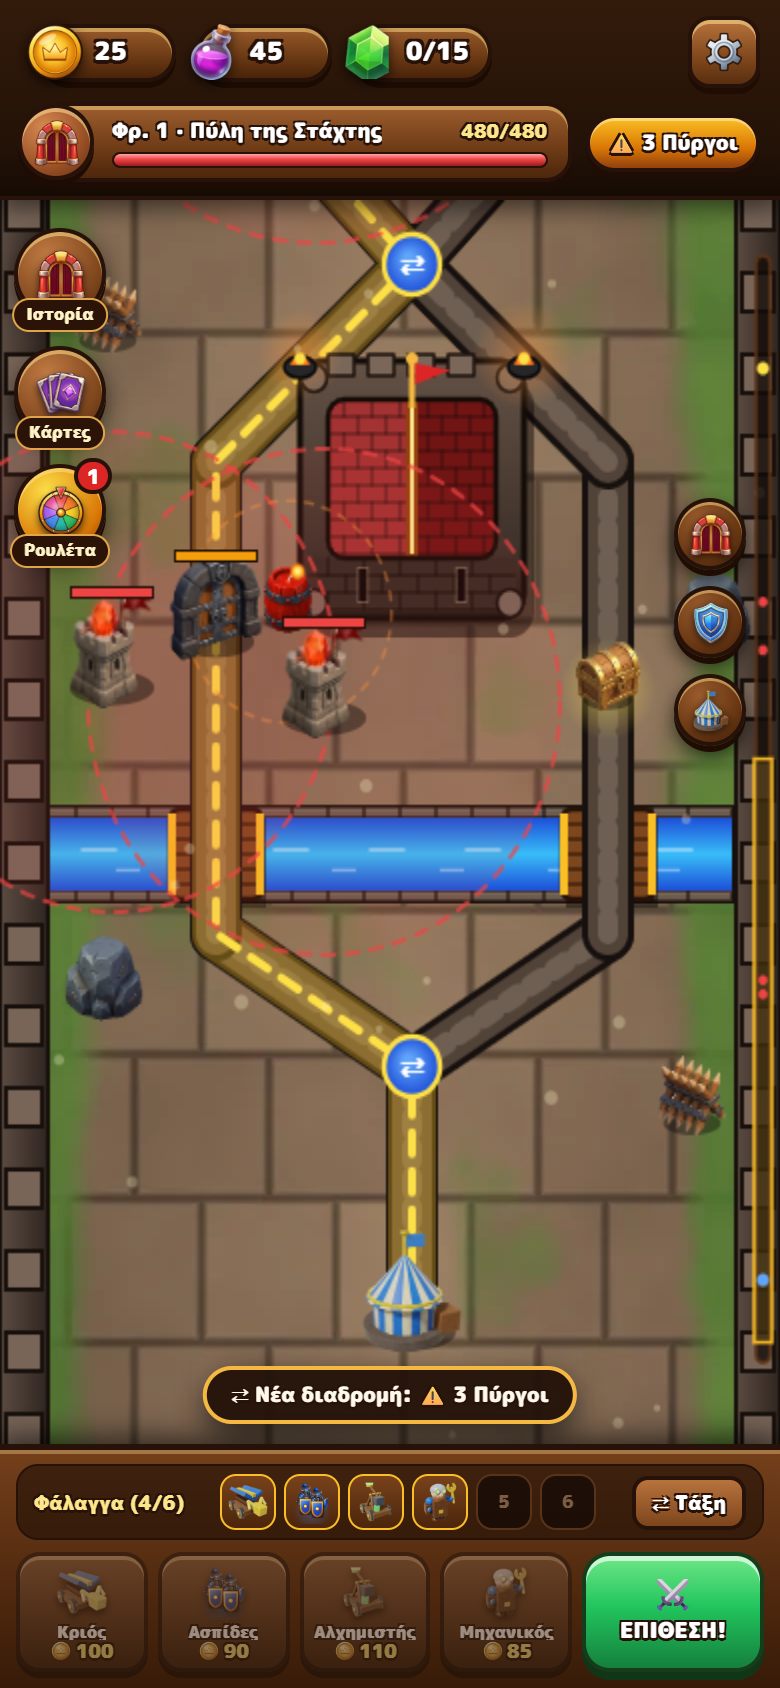
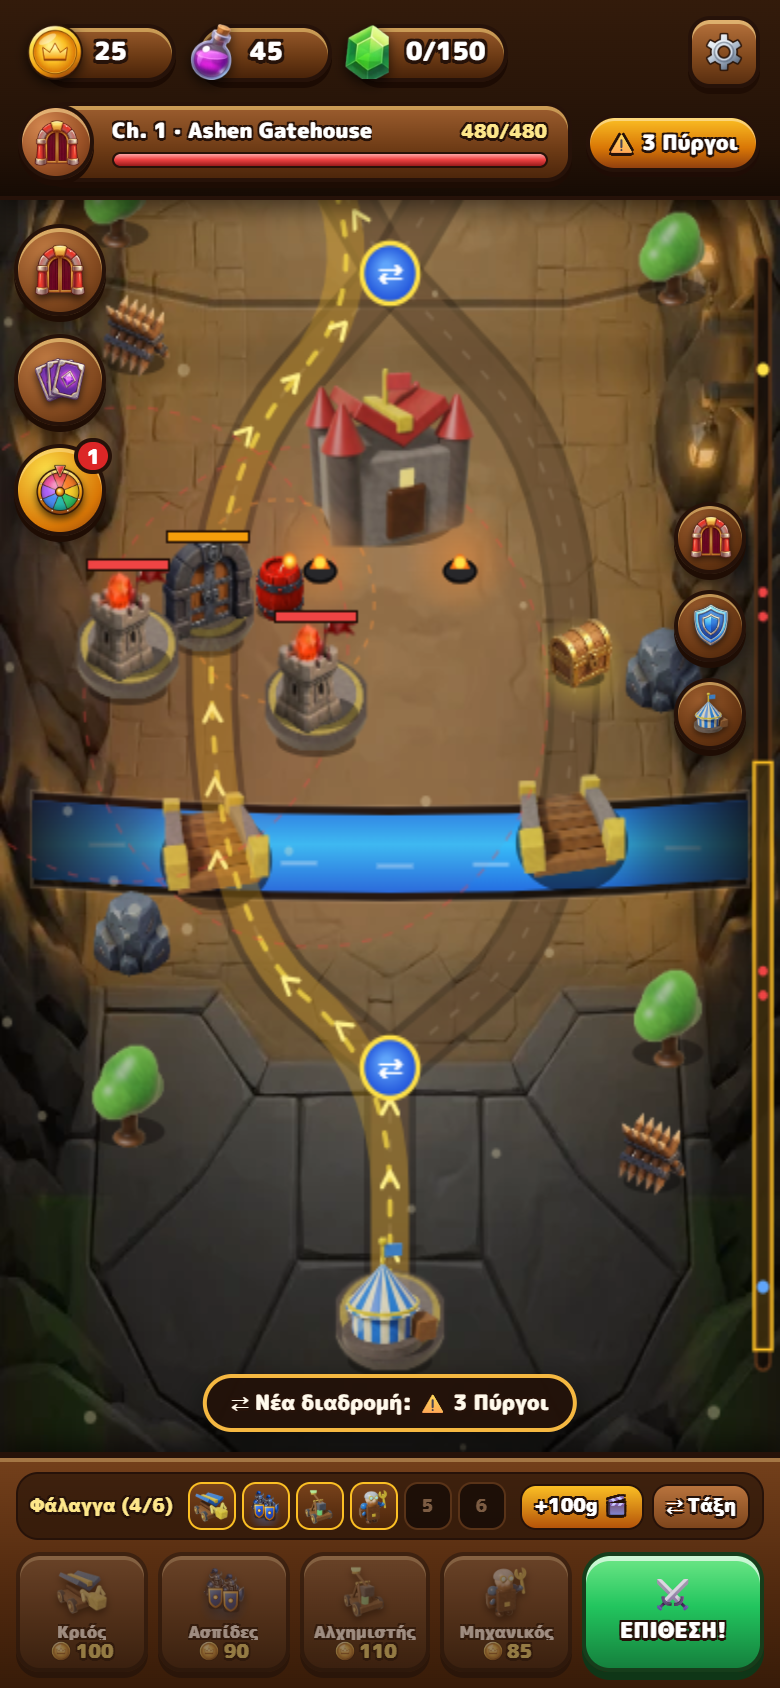
Release v1.2.0: Sculpted Realms, 50 Chapters & refreshed showcase screenshots

diff --git a/README.md b/README.md
@@ -22,12 +22,12 @@
     <img src="https://img.shields.io/badge/More_Apps-jemangr.app-f59e0b?style=for-the-badge" alt="jemangr.app" />
   </a>
   <a href="https://github.com/jemangr/reverse-siege-releases/releases">
-    <img src="https://img.shields.io/badge/Releases-v1.1.0-22c55e?style=for-the-badge" alt="GitHub Releases" />
+    <img src="https://img.shields.io/badge/Releases-v1.2.0-22c55e?style=for-the-badge" alt="GitHub Releases" />
   </a>
 </p>
 
 <p align="center">
-  <img src="https://img.shields.io/badge/Version-v1.1.0-brightgreen" alt="Version v1.1.0" />
+  <img src="https://img.shields.io/badge/Version-v1.2.0-brightgreen" alt="Version v1.2.0" />
   <img src="https://img.shields.io/badge/Package-app.jemangr.reversesiege-blue" alt="Package app.jemangr.reversesiege" />
   <img src="https://img.shields.io/badge/Platform-Android%208.0%2B-purple" alt="Android 8.0+" />
   <img src="https://img.shields.io/badge/Languages-EL%20%7C%20EN-gold" alt="Languages EL | EN" />
@@ -46,26 +46,26 @@ Always get the latest official Android APK build from this permanent link:
 
 ---
 
-## ✨ Key Highlights (`v1.1.0 — Living Castles & 5 Biomes`)
+## ✨ Key Highlights (`v1.2.0 — Sculpted Realms & 50 Chapters`)
 
-- 🏰 **3-Zone Living Castles & Scroll Camera (`390×1100`):** Scroll vertically across **Outer Moat & Drawbridges**, **Inner Guardhouse Walls**, and the **Citadel Keep Sanctum** via touch drag, wheel, right-side quick-camera medallions, and a live **Vertical Depth Minimap** bar.
-- 🌍 **5 Bespoke 3D Biomes:** Battle across **Ashen Grasslands**, **Lava Embers**, **Mossy Dungeons**, **Frozen Bastion**, and the **Crimson Royal Citadel**, complete with animated water/lava/moss/ice moats, wooden drawbridges, flickering iron braziers, weathered boulders, barricades, craters & stuck arrows.
-- 💣 **Powder Barrels, Loot Chests & Guard Ambushes:** Blast **Powder Barrels** with the Alchemist Trebuchet (or tap to detonate during battle!) for `220+` AoE chain damage, raid flanking **Iron Loot Chests** for bonus Gold & Blueprints, and Clash through emerging **Iron Legion Foot Guards**.
-- 🔥 **Sweeping Dragon Flame Cones & ⇄ Mid-Siege Re-Routing:** Dodge real sweeping **Dragon Flame Cones**, compare tower range rings, and flip multi-courtyard junctions (`J1`/`J2`) live mid-battle as towers fall.
-- 🛡 **4 Siege Units & 3 Commander Powers:** Command **Battering Rams** (with lunge recoil), **Shield Walls** (`74%` Aegis arrow dome), **Alchemist Trebuchets**, and **Sapper Engineers**, backed by **Smoke Veil**, **Field Repair**, and **Meteor Barrage**.
-- 🔄 **Automatic 6-Hour Update Checker & Carved-Wood 3D UI:** Greek/English localization, Workshop Upgrades, Fortune Wheel, and **Our Other Apps** from [jemangr.app](https://jemangr.app).
+- 🏰 **Hand-Painted 3D Sculpted Realms (`390×1100`):** Seamless vertical castle corridors featuring rocky cliff walls with glowing lanterns, **23 3D PBR sprites** (3D stone tower pedestals, guardhouses, arched planked drawbridges, oak & frosted pine trees, burning bronze war-pillars), and organic **curved spline cobblestone paths**.
+- 🌍 **50-Chapter Campaign across 5 Acts (150★):** Progress through **5 distinct realms** (*Ashen Borderlands, Ember Caldera, Verdant Catacombs, Frostfang Pass, Iron King's Domain*) with **5 unique castle layouts**, every 10th chapter as a Boss Citadel (`hpScale 1.00× → 4.09×`, scaled starting Gold `410g → 733g`, Lv. `1–10` Workshop Upgrades, and Act `1..5` campaign filter tabs).
+- 🎯 **Clean HUD & Tactical Clarity:** English chapter names shown consistently across locales, decluttered side medallion icons without overlapping labels, subtle active-threat range rings (tap any tower to inspect), and animated curved moats disappearing beneath cliff overhangs.
+- 💣 **Powder Barrels, Loot Chests & Guard Ambushes:** Detonate **Powder Barrels**, raid flanking **Iron Loot Chests**, clash with **Iron Legion Guards**, and dodge sweeping **Dragon Flame Cones**.
+- 📺 **5-Placement Rewarded & Controlled Interstitial Ads (`window.ReverseAds`):** Native Android ad bridge with Demo fallback (`+100g` in Plan Phase, `2×` Victory Blueprints, Defeat Rescue Boost, scaled Workshop Supply Crate, Fortune Wheel spins, and non-intrusive Interstitial pacing).
+- 🔄 **Automatic 6-Hour Update Checker & 13 `jemangr.app` Portfolio Apps.**
 
 ---
 
 ## 📸 Screenshots Gallery
 
-| 1. Biome 1 Grasslands, Moat & Route (`⇄`) | 2. Powder Barrel Blast, Guards & Gate Smash | 3. Biome 2 Lava, Dragon Flame & Smoke Veil |
+| 1. Ch.1 Ashen Gatehouse, 3D Guardhouse & Spline Paths | 2. Powder Barrel Shockwave, Guards & Aegis Dome | 3. Ch.11 Lava Caldera, Smoke Veil & Meteor Barrage |
 | :---: | :---: | :---: |
-| <img src="screenshots/rs_01_plan_route.png" width="220" alt="Biome 1 Grasslands Route Planning" /> | <img src="screenshots/rs_02_live_siege.png" width="220" alt="Powder Barrel Blast and Gate Smash" /> | <img src="screenshots/rs_03_flank_smoke.png" width="220" alt="Lava Biome Dragon Flame and Smoke Veil" /> |
+| <img src="screenshots/rs_01_plan_route.png" width="220" alt="Ashen Gatehouse 3D Map and Clean Medallions" /> | <img src="screenshots/rs_02_live_siege.png" width="220" alt="Live Siege Powder Barrel Shockwave" /> | <img src="screenshots/rs_03_flank_smoke.png" width="220" alt="Courtyard of Embers Lava Biome and Smoke Veil" /> |
 
-| 4. 5-Chapter Story Campaign | 5. Siege Workshop Upgrades | 6. Citadel Shattered (3★ Victory) |
+| 4. 50-Chapter Campaign (Act Tabs & Bosses) | 5. Siege Workshop Upgrades (Lv. 1–10) | 6. Citadel Shattered & 2× Blueprints Ad |
 | :---: | :---: | :---: |
-| <img src="screenshots/rs_04_story_campaign.png" width="220" alt="Story Campaign" /> | <img src="screenshots/rs_05_workshop_upgrades.png" width="220" alt="Workshop Upgrades" /> | <img src="screenshots/rs_06_victory_keep.png" width="220" alt="Keep Shattered Victory" /> |
+| <img src="screenshots/rs_04_story_campaign.png" width="220" alt="50-Chapter Campaign Modal" /> | <img src="screenshots/rs_05_workshop_upgrades.png" width="220" alt="Workshop Lv 10 Upgrades" /> | <img src="screenshots/rs_06_victory_keep.png" width="220" alt="3-Star Victory and Double Blueprints Ad" /> |
 
 ---
 
